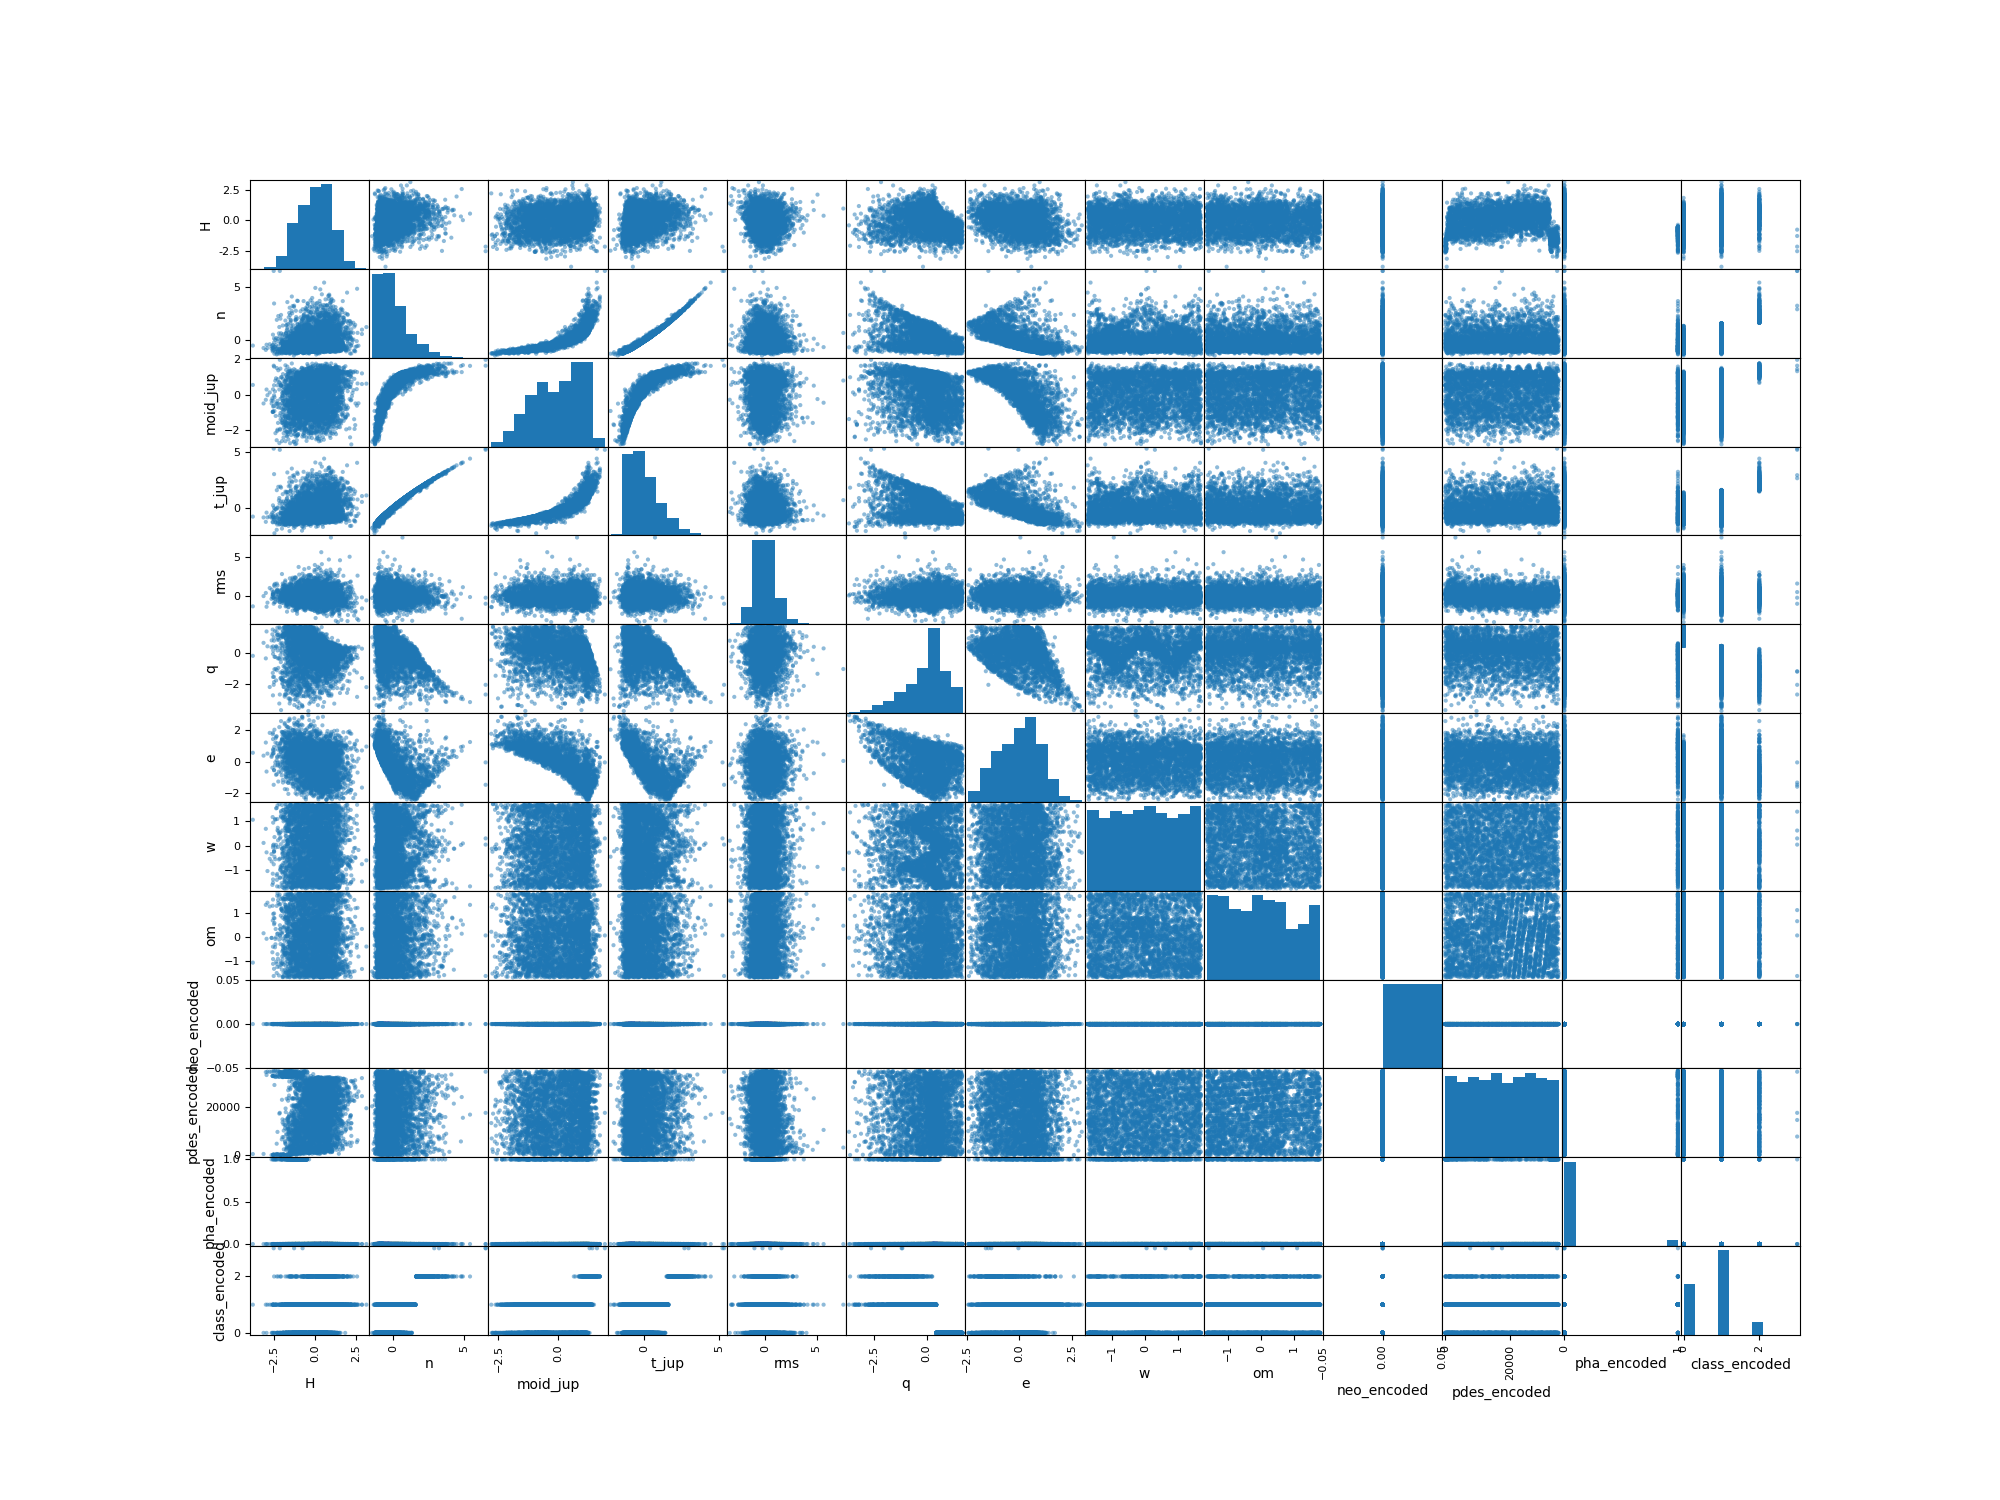
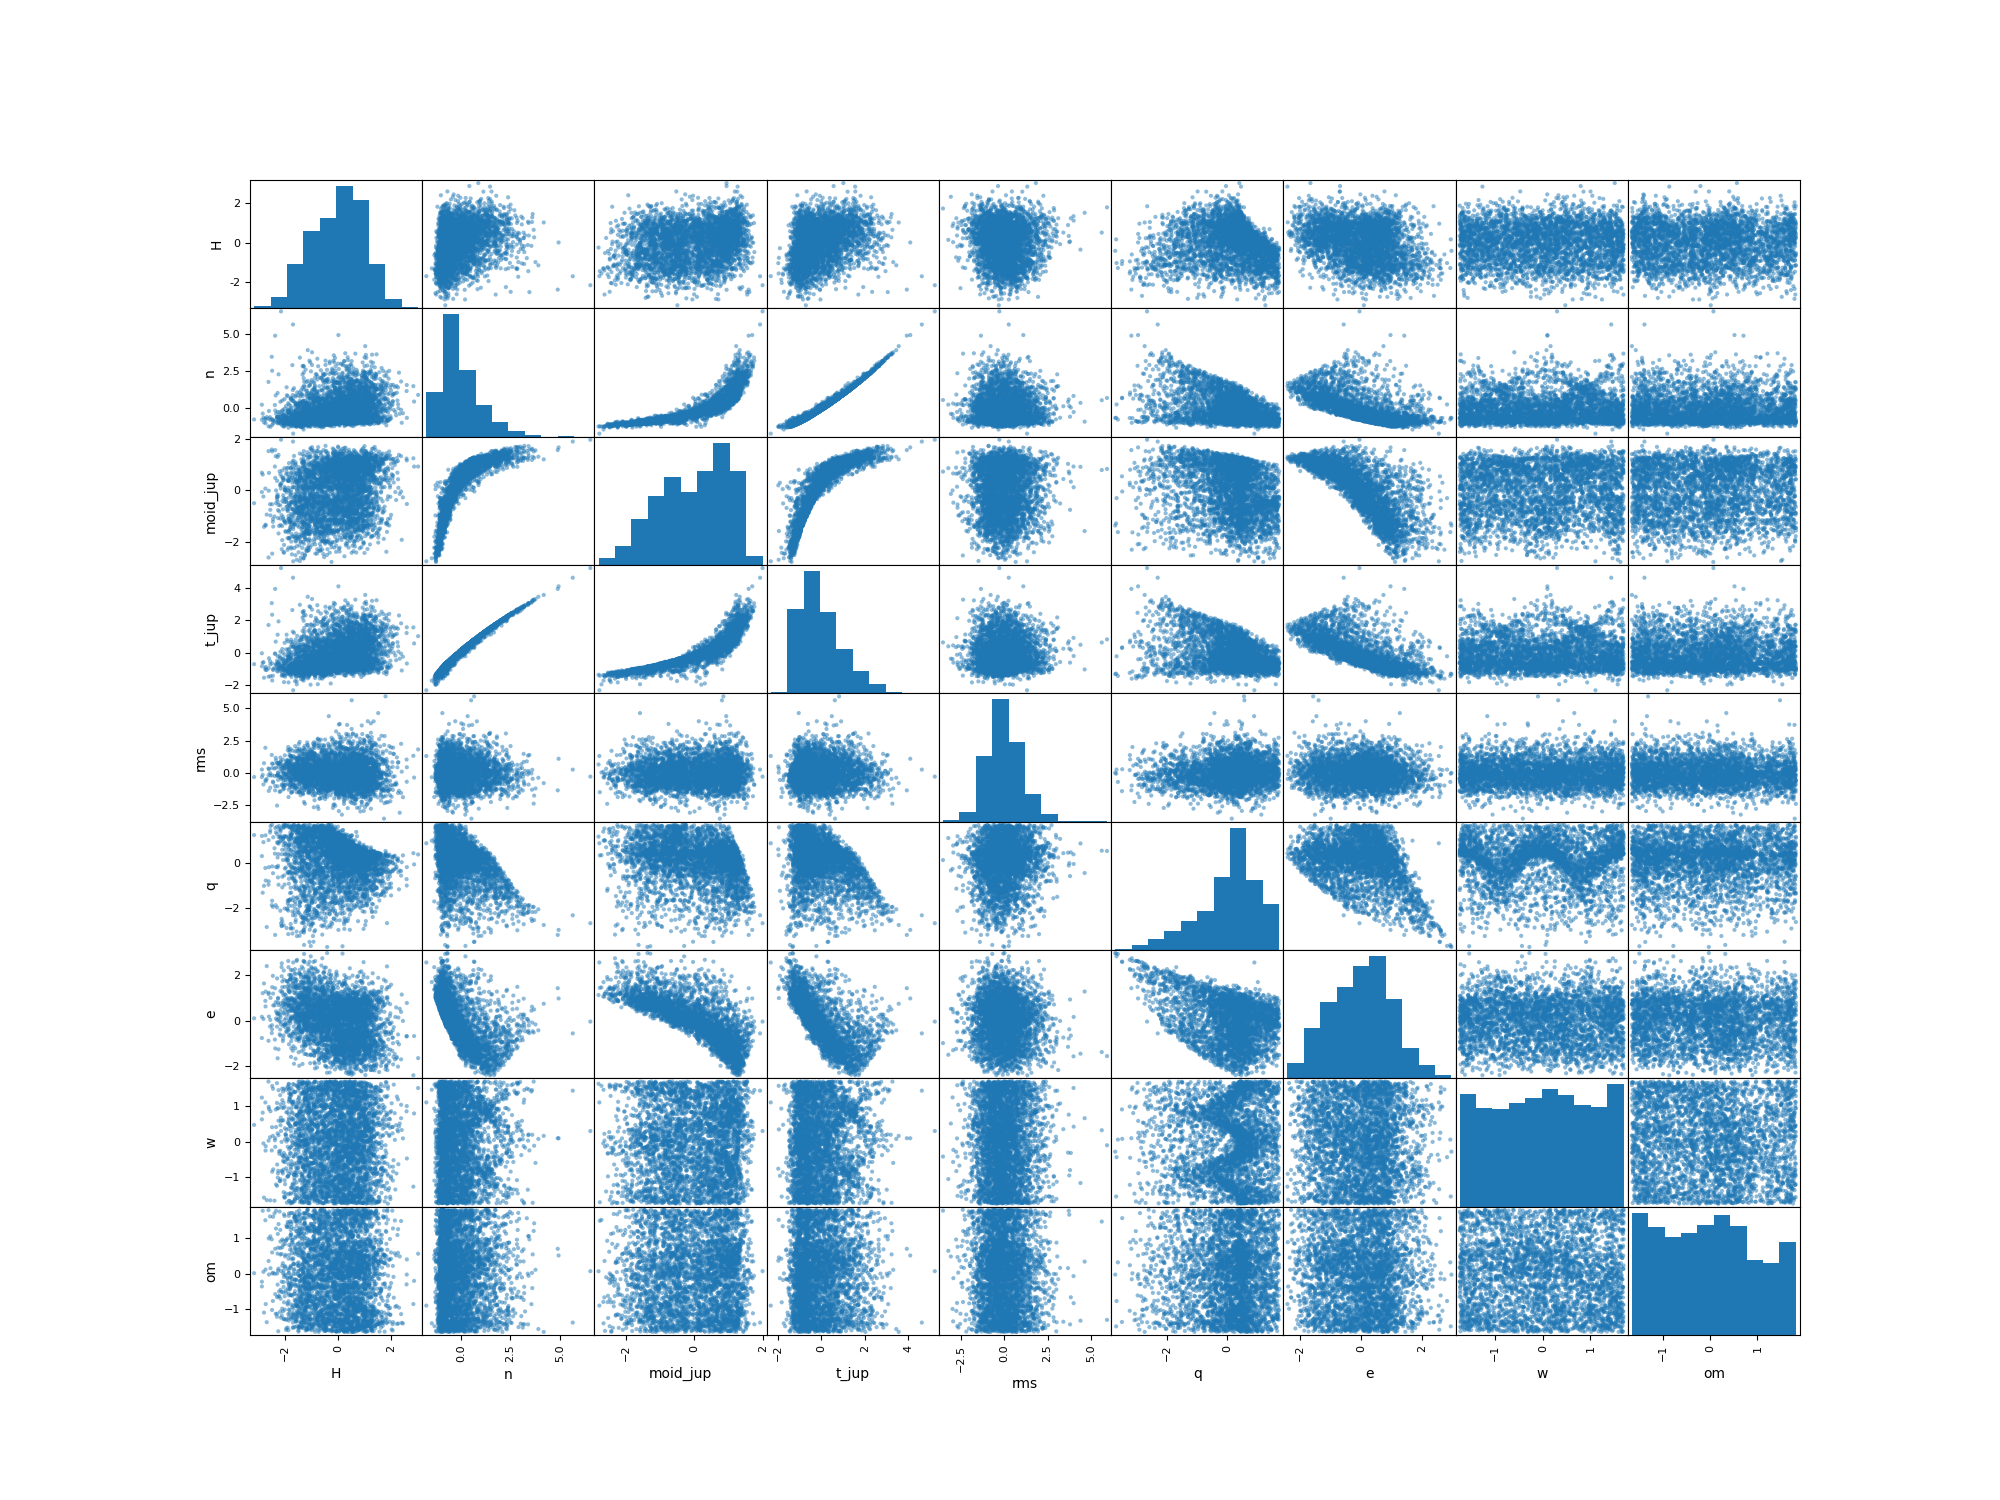
Initial Model Development Code

diff --git a/Code/main.py b/Code/main.py
@@ -5,13 +5,108 @@ from sklearn.preprocessing import scale
 from pandas.plotting import scatter_matrix
 from Charts import charts
 from Utils import utils
+from Models import models
+
+# FUNCTIONS TO PLOT POTENTIAL RELATIONSHIPS
+def Plotting( df ):
+    '''
+    Function to do all the plotting as part of the pre-modeling analysis
+    '''
+    PHA_Y = len(df[df['pha'] == 'Y'])
+    PHA_N = len(df[df['pha'] == 'N']) 
+    print(f'Potentially Harmful Y:{PHA_Y}    N:{PHA_N}')
+    
+    
+    # # Plotting Histograms and Scatter Matrices
+    # df.hist(figsize=(20, 15))
+    # plt.tight_layout()  # Adjusts subplot params for a nice fit
+    # plt.savefig('hist.png')
+    # plt.clf()
+
+    temp = df[ [c for c in df.columns if 'encoded' not in c] ]
+    scatter_matrix(temp, figsize=(20, 15))
+    plt.savefig( 'scattermatrix.png' )
+    plt.clf()
+
+    # Plotting Scatter Plots Color Coded by PHA Y or N
+    PHA_Y = df[df['pha'] == 'Y']
+    PHA_N = df[df['pha'] == 'N']
 
 
-def analyzeData(df):
     '''
-    Do some statistical analysis on the data and make some charts
+    This combo of eccentricity and absolute magnitude seem to exhibit promising results for
+    a classification exercise.... logistic or QDA
     '''
+    x1 = PHA_Y['e'].to_numpy()
+    y1 = PHA_Y['H'].to_numpy()
+    x2 = PHA_N['e'].to_numpy()
+    y2 = PHA_N['H'].to_numpy()
+    charts.ScatterPlot2d(x1, y1, x2, y2, 'PHA: Y', 'PHA: N', '', 'Eccentricity', 'Absolute Magnitude', 'scatter_e_H.png' )
+
+    '''
+    This combo of eccentricity and the MOID for Jupiter also seems to exhibit non-linear results
+    for classification
+    '''
+    x1 = PHA_Y['e'].to_numpy()
+    y1 = PHA_Y['moid_jup'].to_numpy()
+    x2 = PHA_N['e'].to_numpy()
+    y2 = PHA_N['moid_jup'].to_numpy()
+    charts.ScatterPlot2d(x1, y1, x2, y2, 'PHA: Y', 'PHA: N', '', 'Eccentricity', 'Jupiter Minimum Orbit Intersection Dist (au)', 'scatter_e_moid_jup.png' )
+
+    '''
+    Theres an interesting almost sinusoidal pattern here and all the PHAs appear below the line
+    '''
+    x1 = PHA_Y['w'].to_numpy()
+    y1 = PHA_Y['q'].to_numpy()
+    x2 = PHA_N['w'].to_numpy()
+    y2 = PHA_N['q'].to_numpy()
+    charts.ScatterPlot2d(x1, y1, x2, y2, 'PHA: Y', 'PHA: N', '', 'Argument of Perihelion (deg)', 'Perihelion Distance (au)', 'scatter_w_q.png' )
+
+    '''
+    Theres an interesting almost sinusoidal pattern here and all the PHAs appear below the line
+    '''
+    x1 = PHA_Y['H'].to_numpy()
+    y1 = PHA_Y['moid_jup'].to_numpy()
+    x2 = PHA_N['H'].to_numpy()
+    y2 = PHA_N['moid_jup'].to_numpy()
+    charts.ScatterPlot2d(x1, y1, x2, y2, 'PHA: Y', 'PHA: N', '', 'Jupiter Minimum Orbit Intersection Dist (au)', 'Absolute Magnitude', 'scatter_H_moid_jup.png' )
+
+    '''
+    Initial Take at a 3d Cluster using Absolute Magnitude, Jupiter MOID, and Eccentricity
+    '''
+    x1 = PHA_Y['H'].to_numpy()
+    y1 = PHA_Y['moid_jup'].to_numpy()
+    z1 = PHA_Y['e'].to_numpy()
+    x2 = PHA_N['H'].to_numpy()
+    y2 = PHA_N['moid_jup'].to_numpy()
+    z2 = PHA_N['e'].to_numpy()
+    charts.ScatterPlot3d(x1, y1, z1, x2, y2, z2, 'PHA: Y', 'PHA: N', '', 'Absolute Magnitude', 'Jupiter Minimum Orbit Intersection Dist (au)', 'Eccentricity', 'scatter_H_moid_jup_e.png')
+
+
+    x = PHA_Y['om'].to_numpy()
+    y = PHA_Y['w'].to_numpy()
+    z = PHA_Y['e'].to_numpy()
+    charts.ClustedPlot3d(x, y, z, '', 'Longitude of the Ascending Node (deg)', 'Argument of Perihelion (deg)', 'Eccentricity', 'cluster_om_w_e.png')
+
+
+# FUNCTIONS FOR MODELLING RELATIONSHIPS TO CLASSIFY PHA
+def AnalysisV1( df ):
+    '''
+        Relationship: Eccentricity (e) vs. Absolute Magnitude (H)
+        -   LDA: Use a linear decision boundary where we assume equal covariances to test if we can separate the data
+        -   Logistic Regression: Use a linear decision boundary with lighter assumptions than LDA to check if we can separate the data better
+        -   SVM (with Kernels): Test an SVM with varying Kernels.  Maybe in higher dimensions we have more easily separable data
+        
+        X is a 2xN matrix where the inputs are e and H
+        y is the response variable which is PHA y/n
+    '''    
+    X = df[ ['e', 'H'] ]
+    y = df[ ['pha_encoded'] ]
+    print(f'{X.head()}\n{y.head()}')
+    [avg, std, Logistic] = models.Logistic(X, y)
+    
     return()
+
 
 def main():
     '''
@@ -33,76 +128,30 @@ def main():
     df = df.sample(frac=0.1)
     df.dropna( inplace=True)
 
-    PHA_Y = len(df[df['pha'] == 'Y'])
-    PHA_N = len(df[df['pha'] == 'N']) 
-    print(f'Potentially Harmful Y:{PHA_Y}    N:{PHA_N}')
+    print(df.head())
+
+    # Create and Save Pre-analysis plots
+    # Plotting(df)
+
+
+    '''
+    Here I detail what boudnaries and algorithms I actually want to test and how I'd like to test them.  For every model we implement, 
+    assume 10-fold cross validation is used.  
+
+    Relationship: Eccentricity (e) vs. Absolute Magnitude (H)
+        -   LDA: Use a linear decision boundary where we assume equal covariances to test if we can separate the data
+        -   Logistic Regression: Use a linear decision boundary with lighter assumptions than LDA to check if we can separate the data better
+        -   SVM (with Kernels): Test an SVM with varying Kernels.  Maybe in higher dimensions we have more easily separable data
+
+    Relationship: Eccentricity (v) vs. Jupiter MOID (moid_jup_)
+        -   QDA: See if a quadratic decision boundary can separate data better than a linear
+        -   SVM (with Kernels):  See if higher dimensional spaces can separate better than a QDA
     
-    
-    # # Plotting Histograms and Scatter Matrices
-    # df.hist(figsize=(20, 15))
-    # plt.tight_layout()  # Adjusts subplot params for a nice fit
-    # plt.savefig('hist.png')
-    # plt.clf()
-    # scatter_matrix(df, figsize=(20, 15))
-    # plt.savefig( 'scattermatrix.png' )
-    # plt.clf()
-
-    # Plotting Scatter Plots Color Coded by PHA Y or N
-    PHA_Y = df[df['pha'] == 'Y']
-    PHA_N = df[df['pha'] == 'N']
-
-
+    Relationship: Arg of Perihelion (w) vs. Perihelion Distance (q)
+        -   SVM with Gaussian Kernel
+        -   SVM with a periodic kernel 
     '''
-    This combo of eccentricity and absolute magnitude seem to exhibit promising results for
-    a classification exercise.... logistic or QDA
-    '''
-    # x1 = PHA_Y['e'].to_numpy()
-    # y1 = PHA_Y['H'].to_numpy()
-    # x2 = PHA_N['e'].to_numpy()
-    # y2 = PHA_N['H'].to_numpy()
-    # charts.ScatterPlot2d(x1, y1, x2, y2, 'PHA: Y', 'PHA: N', '', 'Eccentricity', 'Absolute Magnitude', 'scatter_e_H.png' )
-
-    '''
-    This combo of eccentricity and the MOID for Jupiter also seems to exhibit non-linear results
-    for classification
-    '''
-    # x1 = PHA_Y['e'].to_numpy()
-    # y1 = PHA_Y['moid_jup'].to_numpy()
-    # x2 = PHA_N['e'].to_numpy()
-    # y2 = PHA_N['moid_jup'].to_numpy()
-    # charts.ScatterPlot2d(x1, y1, x2, y2, 'PHA: Y', 'PHA: N', '', 'Eccentricity', 'Jupiter Minimum Orbit Intersection Dist (au)', 'scatter_e_moid_jup.png' )
-
-    '''
-    Theres an interesting almost sinusoidal pattern here and all the PHAs appear below the line
-    '''
-    # x1 = PHA_Y['w'].to_numpy()
-    # y1 = PHA_Y['q'].to_numpy()
-    # x2 = PHA_N['w'].to_numpy()
-    # y2 = PHA_N['q'].to_numpy()
-    # charts.ScatterPlot2d(x1, y1, x2, y2, 'PHA: Y', 'PHA: N', '', 'Argument of Perihelion (deg)', 'Perihelion Distance (au)', 'scatter_w_q.png' )
-
-    '''
-    Theres an interesting almost sinusoidal pattern here and all the PHAs appear below the line
-    '''
-    # x1 = PHA_Y['H'].to_numpy()
-    # y1 = PHA_Y['moid_jup'].to_numpy()
-    # x2 = PHA_N['H'].to_numpy()
-    # y2 = PHA_N['moid_jup'].to_numpy()
-    # charts.ScatterPlot2d(x1, y1, x2, y2, 'PHA: Y', 'PHA: N', '', 'Jupiter Minimum Orbit Intersection Dist (au)', 'Absolute Magnitude', 'scatter_H_moid_jup.png' )
-
-    
-
-    '''
-    Initial Take at a 3d Cluster
-    '''
-    # x1 = PHA_Y['H'].to_numpy()
-    # y1 = PHA_Y['moid_jup'].to_numpy()
-    # z1 = PHA_Y['e'].to_numpy()
-    # x2 = PHA_N['H'].to_numpy()
-    # y2 = PHA_N['moid_jup'].to_numpy()
-    # z2 = PHA_N['e'].to_numpy()
-    # charts.ScatterPlot3d(x1, y1, z1, x2, y2, z2, 'PHA: Y', 'PHA: N', '', 'Absolute Magnitude', 'Jupiter Minimum Orbit Intersection Dist (au)', 'Eccentricity', 'scatter_H_moid_jup_e.png')
-
+    AnalysisV1(df)
 
     return()
 

diff --git a/Code/Models/models.py b/Code/Models/models.py
@@ -1,0 +1,145 @@
+from sklearn.linear_model import LogisticRegression
+from sklearn.discriminant_analysis import LinearDiscriminantAnalysis
+from sklearn.discriminant_analysis import QuadraticDiscriminantAnalysis
+from sklearn.svm import SVC
+from sklearn.model_selection import cross_val_score
+import numpy as np
+from sklearn.utils.validation import column_or_1d
+
+class Model():
+    def __init__(self, Train, Test, X, y, model=LogisticRegression()):
+        '''
+        Generic Class for a model which we will use to classify
+
+        inputs:
+            Train:  Training data, already split before being passed here
+            Test:   Test data, already split before being passed her
+            X:      an array of explanatory variables ['e', 'H', 'moid_jup' ]
+            y:      an array of the response variable for example ['pha']
+
+        FIXME:  If i've already fit a model and THEN i cross validate the same
+        instance, does it barf? Does that affect fit at all?
+        '''
+        self.model  = model # Model to train and predict with
+        self.Train  = Train # Train Dataset
+        self.Test   = Test  # Test Dataset
+        self.X      = X     # Explanatory columns
+        self.y      = y     # Response Columns
+        self.y_hat  = None  # Predicted Values
+        self.prepData()
+
+    
+    def prepData(self):
+        '''
+        Take the explanatory and response variables and filter Train/Test to only
+        contain those columns
+        '''
+        # Concatenate Explanatory and response variables
+        fields = np.concatenate( [self.X, self.y] )
+        print(fields)
+        # Filter data
+        self.Train  = self.Train[ fields ]
+        self.Test   = self.Test[ fields ]
+    
+    def fit(self):
+        '''
+        Fit the instance's model with input data
+        '''
+        X = self.Train[self.X]
+        y = self.Train[self.y]
+        self.model = self.model.fit(X, column_or_1d(y))
+    
+    def cross_validate(self, k=10):
+        '''
+        Run k-fold cross validation for the model
+
+        input:
+            k: the number of folds, default 10
+        '''
+        X = self.Train[self.X]
+        y = self.Train[self.y]
+        scores = cross_val_score(self.model, X, y, cv=k)
+    
+    def predict(self):
+        '''
+        Take the fitted model, split the test set into X and y, and
+        predict values based on our fitted model.
+        '''
+        X = self.Test[ self.X ]
+        self.y_hat = self.model.predict()
+
+
+
+def Logistic(X, y):
+    '''
+    Takes in the explanatory (X) and response variables (y).
+    runs 10 fold CV for a Logistic Regression Model, and then 
+    trains a Logistic Regression Model.
+
+    Returns the array of cross validation scores, and a model in an array
+    [avg score, std dev,  model]
+    '''
+    # Fit the model
+    y = column_or_1d(y)
+    model = LogisticRegression().fit(X, y)
+
+    # 10-fold CV
+    scores  = cross_val_score(LogisticRegression(), X, y, cv=10)
+    avg     = np.mean(scores)
+    std     = np.std(scores)
+
+    return( [avg, std, model] )
+
+def LDA(X, y):
+    '''
+    Takes in the explanatory (X) and response variables (y).
+    runs 10 fold CV for an LDA Model, and then trains a  Model. 
+    '''
+    # Fit the model
+    model   = LinearDiscriminantAnalysis().fit(X, y)
+
+    # 10-fold CV
+    scores  = cross_val_score(LinearDiscriminantAnalysis(), X, y, cv=10)
+    avg     = np.mean(scores)
+    std     = np.std(scores)
+
+    return( [avg, std, model] )
+
+def QDA(X, y):
+    '''
+    Takes in the explanatory (X) and response variables (y).
+    runs 10 fold CV for a QDA Model, and then trains a Model.
+    '''
+    # Fit the model
+    model   = QuadraticDiscriminantAnalysis().fit(X, y)
+
+    # 10-fold CV
+    scores  = cross_val_score(QuadraticDiscriminantAnalysis(), X, y, cv=10)
+    avg     = np.mean(scores)
+    std     = np.std(scores)
+
+    return( [avg, std, model] )
+
+def SVM( X, y, kernel='linear'):
+    '''
+    Takes in the explanatory (X), response variables (y), and kernel.
+    runs 10 fold CV for an SVM Model, and then trains a Model.
+
+    Inputs:
+        X:      explanatory vars
+        y:      response vars
+        kernel: Kernel to use for the analysis
+    '''
+    # Fit the model
+    clf     = SVC( kernel=kernel )
+    model   = SVC( kernel=kernel ).fit(X, y) 
+
+    # 10-fold CV
+    scores  = cross_val_score(clf, X, y, cv=10)
+    avg     = np.mean(scores)
+    std     = np.std(scores)
+    return( [avg, std, model] )
+    
+
+if __name__ == '__main__':
+    pass

diff --git a/Code/Charts/charts.py b/Code/Charts/charts.py
@@ -66,4 +66,30 @@ def ScatterPlot3d(x1, y1, z1, x2, y2, z2, labels1, labels2, title='', xlabel='',
 
     # Save the plot
     plt.savefig( fname )
+
+def ClustedPlot3d(x, y, z, title='', xlab='', ylab='', zlab='', fname=''):
+    '''
+    Plots a clusted of 3d data
+    
+    Parameters:
+    x, y, z: numpy arrays of x, y, z values for the dataset
+    title: title of the plot (default is "3D Scatter Plot")
+    xlabel: label for the x-axis (default is "X-axis")
+    ylabel: label for the y-axis (default is "Y-axis")
+    zlabel: label for the z-axis (default is "Z-axis")
+    '''
+    # Create a 3D scatter plot with 50% transparency
+    fig = plt.figure(figsize=(10, 8))
+    ax = fig.add_subplot(111, projection='3d')
+    
+    ax.scatter(x, y, z, c='red', alpha=0.25)
+    
+    # Add titles and labels
+    ax.set_title(title)
+    ax.set_xlabel(xlab)
+    ax.set_ylabel(ylab)
+    ax.set_zlabel(zlab)
+    
+    # Save the plot
+    plt.savefig( fname )
  
